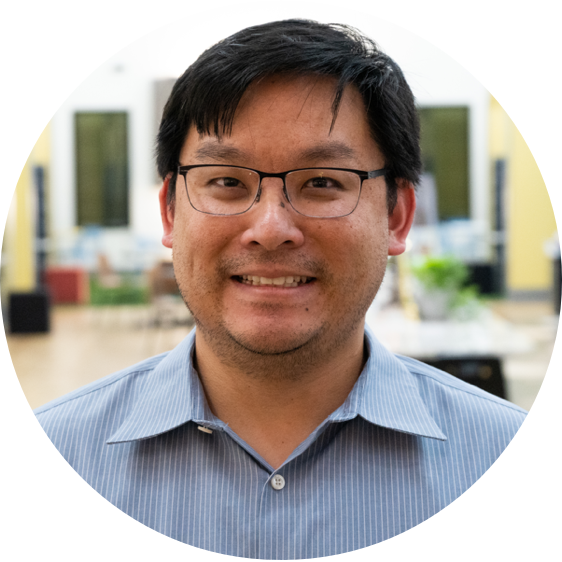
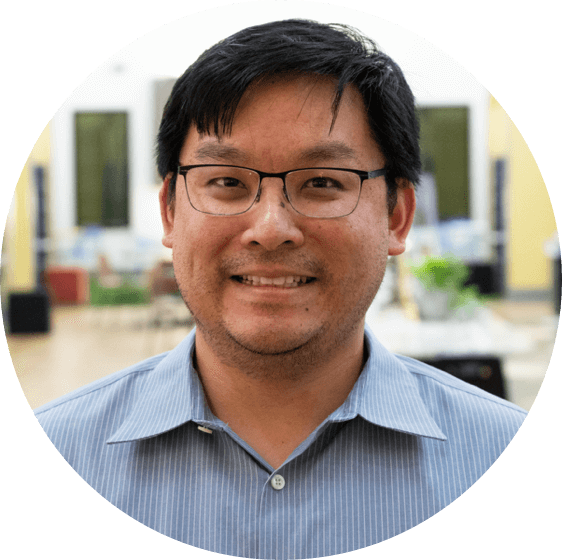
ff-new: 修改头像图片

diff --git a/src/containers/single/aboutUs.tsx b/src/containers/single/aboutUs.tsx
@@ -85,7 +85,7 @@ const userIntro: IUserIntro[] = [
     desc: "Head of Design"
   },
   {
-    headimg: require("./res/whoWeAre/head_5.png"),
+    headimg: require("./res/whoWeAre/head_3.png"),
     name: "Christine Huang",
     desc: "Customer Service"
   }
